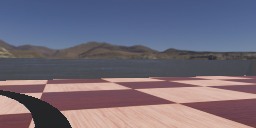
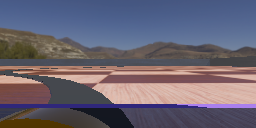
Inserted wheels

diff --git a/controllers/meuRobo/meuRobo.py b/controllers/meuRobo/meuRobo.py
@@ -65,18 +65,23 @@ class MeuRobot:
         self.robot = robot
         self.nome  = robot.getName()
         print("Nome do robo : ", self.nome)
-        self.motor_esq = self.robot.getDevice("motor roda esquerda")
-        self.motor_dir = self.robot.getDevice("motor roda direita")
-
-        self.motor_esq.setPosition(float('+inf'))
-        self.motor_dir.setPosition(float('+inf'))
-
-        self.motor_esq.setVelocity(2.0)
-        self.motor_dir.setVelocity(2.0)
         
-        self.gps = self.robot.getDevice("gps")
-        self.gps.enable(timestep)
-
+        
+        self.motor_diant_esq = self.robot.getDevice("motor_roda_diant_esq")
+        self.motor_tras_esq = self.robot.getDevice("motor_roda_tras_esq")
+        self.motor_diant_dir = self.robot.getDevice("motor_roda_diant_dir")
+        self.motor_tras_dir = self.robot.getDevice("motor_roda_tras_dir")
+        
+        self.motor_diant_esq.setPosition(float('inf'))
+        self.motor_tras_esq.setPosition(float('inf'))
+        self.motor_diant_dir.setPosition(float('inf')) 
+        self.motor_tras_dir.setPosition(float('inf'))       
+        
+        self.motor_diant_esq.setVelocity(-2.0)
+        self.motor_tras_esq.setVelocity(-2.0)
+        self.motor_diant_dir.setVelocity(-2.0)
+        self.motor_tras_dir.setVelocity(-2.0)      
+        
         self.mainSensor = self.robot.getDevice("main_sensor")
         self.mainSensor.enable(timestep)
         
@@ -95,7 +100,7 @@ class MeuRobot:
        
     def run(self):
         raise NotImplementedError
-        
+
 
 class TI502(MeuRobot):
     def run(self):
@@ -105,33 +110,12 @@ class TI502(MeuRobot):
             self.cv.saveImage("image.png", 720)
             l_dist = self.leftSensor.getValue()
             r_dist = self.rightSensor.getValue()
+            
             distLine = self.mainSensor.getValue()
+            print(distLine)
             
-            if distLine == 0:
-                #print("Linha")
-                sentido = 0
-                self.motor_dir.setVelocity(2.0)
-                self.motor_esq.setVelocity(2.0)
-            else:
-                #print("fora")
-                #print(f"Left: {l_dist} | Right: {r_dist}")
-                if sentido == 1:
-                    self.motor_dir.setVelocity(0.0)
-                    self.motor_esq.setVelocity(2.0)
-                elif sentido == 2:
-                    self.motor_dir.setVelocity(2.0)
-                    self.motor_esq.setVelocity(0.0)
-            
-                if r_dist > l_dist:
-                    sentido = 1 # go to left
-                elif r_dist < l_dist:
-                    sentido = 2 # go to right
-                else:
-                    sentido = 1
              
-    def  pararRobo(self, estado):
-        self.parado = estado    
-
+    
 
 robot = Robot()
 
